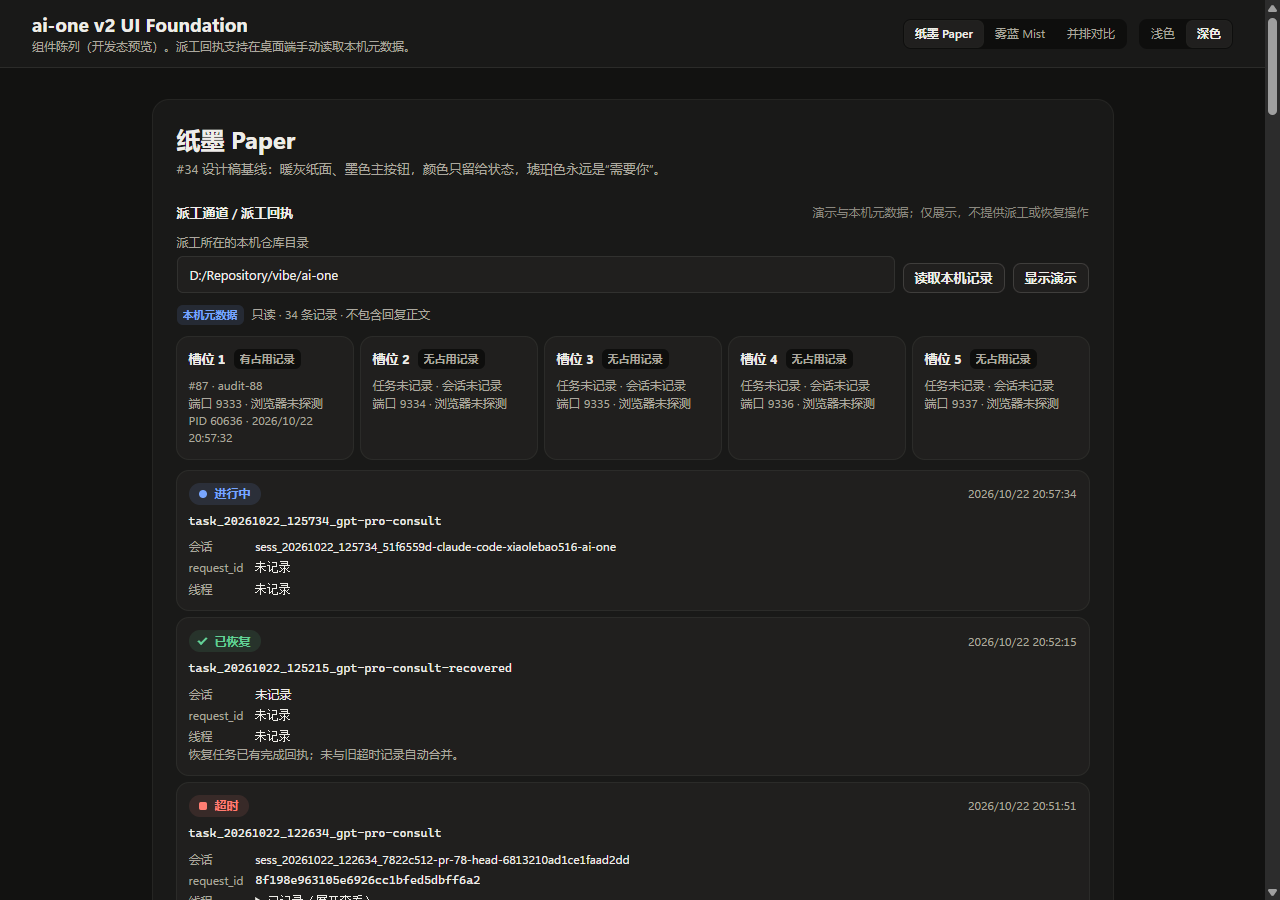
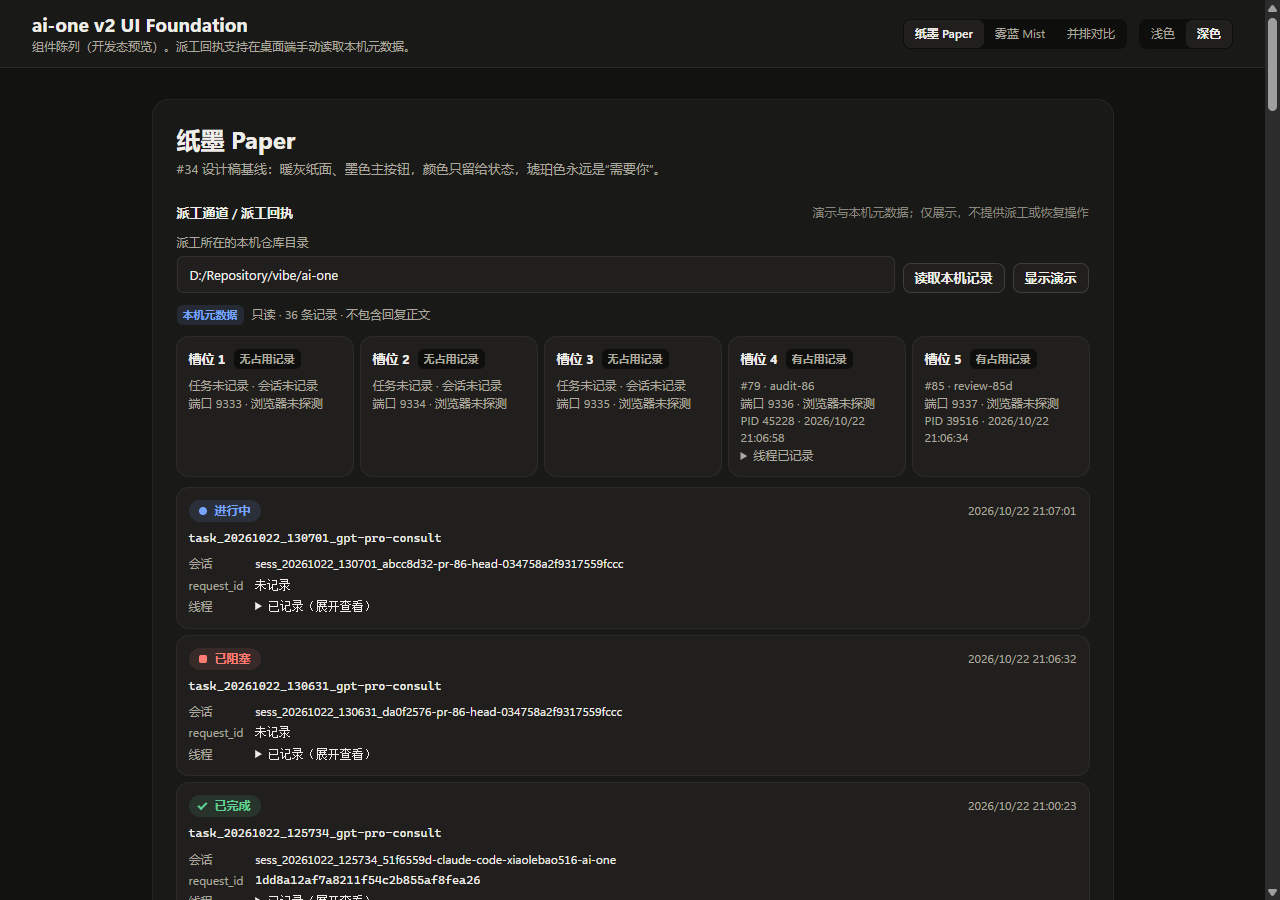
fix(#80): preserve valid slot session identifiers

diff --git a/src/dispatch/parse.ts b/src/dispatch/parse.ts
@@ -6,6 +6,7 @@ const text = (value: unknown, pattern: RegExp) => typeof value === 'string' && p
 const taskId = (value: unknown) => text(value, /^task_\d{8}_\d{6}_[a-z0-9-]{1,100}$/);
 const sessionId = (value: unknown) => text(value, /^sess_\d{8}_\d{6}_[a-z0-9-]{1,100}$/);
 const sessionKey = (value: unknown) => text(value, /^[A-Za-z0-9][A-Za-z0-9._:@/-]{0,127}$/);
+const slotSessionKey = (value: unknown) => text(value, /^[A-Za-z0-9._:-]{1,64}$/);
 const requestId = (value: unknown) => text(value, /^[a-f0-9]{32}$/);
 const issue = (value: unknown) => text(value, /^#\d{1,6}$/);
 const date = (value: unknown) => typeof value === 'string' && /^\d{4}-\d\d-\d\dT[\d:.]+Z$/.test(value) && Number.isFinite(Date.parse(value)) ? value : undefined;
@@ -58,7 +59,7 @@ export function parseDispatchSnapshot(input: unknown): DispatchSnapshot {
     const row = object(value);
     const id = positiveInt(row.id);
     if (!id || id > 8 || row.port !== 9332 + id) continue;
-    const slot: DispatchSlot = { id, port: 9332 + id, state: row.invalid === true ? 'unknown' : row.claim_present === true ? row.stale === true ? 'stale' : 'claimed' : 'idle', browserState: 'unprobed', pid: positiveInt(row.pid), task: issue(row.task), sessionKey: sessionKey(row.session_key), threadUrl: threadUrl(row.thread), startedAt: typeof row.started_at === 'number' && row.started_at > 0 && row.started_at < 8.64e15 ? new Date(row.started_at).toISOString() : undefined };
+    const slot: DispatchSlot = { id, port: 9332 + id, state: row.invalid === true ? 'unknown' : row.claim_present === true ? row.stale === true ? 'stale' : 'claimed' : 'idle', browserState: 'unprobed', pid: positiveInt(row.pid), task: issue(row.task), sessionKey: slotSessionKey(row.session_key), threadUrl: threadUrl(row.thread), startedAt: typeof row.started_at === 'number' && row.started_at > 0 && row.started_at < 8.64e15 ? new Date(row.started_at).toISOString() : undefined };
     slots.push(slot);
   }
   // A live claim describes current slot ownership, not the Issue of a historical dispatch.

diff --git a/src/dispatch/parse.test.ts b/src/dispatch/parse.test.ts
@@ -47,6 +47,13 @@ describe('dispatch metadata parser', () => {
       expect(model.slots[0].task).toBe('#81');
     }
   });
+  it('preserves slot keys allowed by the slot CLI without widening Prodex session keys', () => {
+    for (const key of ['_audit', '.audit', ':audit', '-audit']) {
+      const model = parseDispatchSnapshot({ ...snapshot([{ ...session, session_key: key }]), slots: [{ id: 1, port: 9333, claim_present: true, session_key: key }] });
+      expect(model.slots[0].sessionKey).toBe(key);
+      expect(model.events[0].sessionKey).toBeUndefined();
+    }
+  });
   it('does not infer Issue ownership from arbitrary task names or session text', () => {
     expect(parseDispatchSnapshot(snapshot([{ ...session, session_key: 'maybe-issue-80' }])).events[0].issue).toBeUndefined();
   });

diff --git a/src-tauri/src/dispatch_readonly.rs b/src-tauri/src/dispatch_readonly.rs
@@ -179,6 +179,13 @@ fn valid_session(value: &str) -> bool {
             .bytes()
             .all(|b| b.is_ascii_alphanumeric() || b"._:@/-".contains(&b))
 }
+fn valid_slot_session(value: &str) -> bool {
+    !value.is_empty()
+        && value.len() <= 64
+        && value
+            .bytes()
+            .all(|b| b.is_ascii_alphanumeric() || b"._:-".contains(&b))
+}
 fn valid_thread(value: &str) -> bool {
     let Some(rest) = value.strip_prefix("https://chatgpt.com/") else {
         return false;
@@ -374,9 +381,7 @@ fn collect(root: &Path, home: &Path) -> Result<Snapshot, ()> {
                             !n.is_empty() && n.len() <= 6 && n.bytes().all(|b| b.is_ascii_digit())
                         })
                     });
-                    keep(&mut claim.session_key, |s| {
-                        valid_session(s) && s.len() <= 64 && !s.contains(['@', '/'])
-                    });
+                    keep(&mut claim.session_key, valid_slot_session);
                     keep(&mut claim.thread, valid_thread);
                     slot.pid = claim.pid.filter(|p| *p > 0);
                     slot.started_at = claim
@@ -414,6 +419,17 @@ mod tests {
         let row = receipt_metadata(serde_json::from_str(r#"{"kind":"consult_answer_saved","summary":"PRIVATE_REPLY","metadata":{"request_id":"invalid","token":"PRIVATE_TOKEN","thread":"https://chatgpt.com/c/123?token=PRIVATE"}}"#).unwrap());
         assert!(!serde_json::to_string(&row).unwrap().contains("PRIVATE"));
         assert!(row.thread.is_none());
+    }
+    #[test]
+    fn slot_session_keys_follow_the_slot_cli_rule() {
+        for key in ["_audit", ".audit", ":audit", "-audit", "a-1.b:c_d"] {
+            assert!(valid_slot_session(key));
+        }
+        for key in ["", "a/b", "a@b", "space here", "cookie=x"] {
+            assert!(!valid_slot_session(key));
+        }
+        assert!(!valid_slot_session(&"a".repeat(65)));
+        assert!(!valid_session("_audit"));
     }
     #[test]
     fn validates_metadata_before_ipc() {
